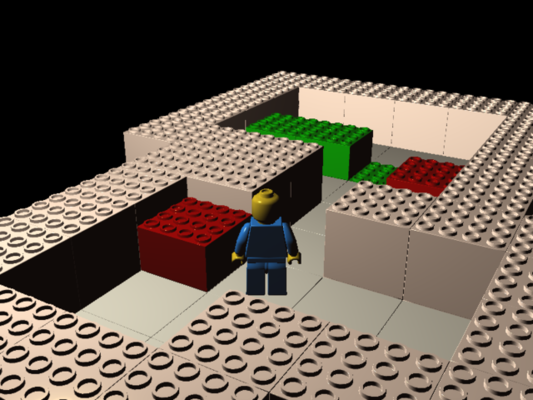
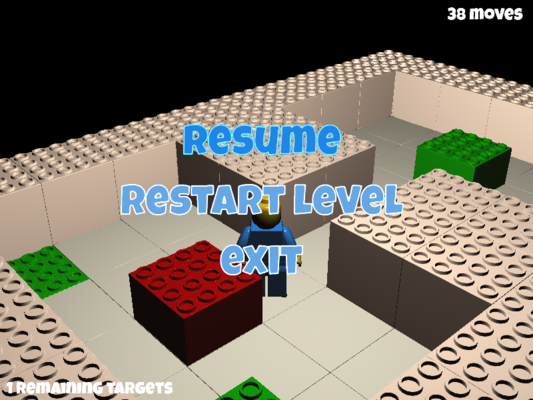
Updated screeenshot and README.
Porting of text rendering to NaCl advances slowly...

diff --git a/README.md b/README.md
@@ -5,7 +5,7 @@ is to **push** all the boxes to their destination places.
 
 ![Screenshot](https://github.com/nuclearwhales/push-the-box/raw/master/screenshot.png)
 
-**Playable version is available** on http://nuclearwhales.github.com/push-the-box .
+(Slightly outdated) **playable version is available** on http://nuclearwhales.github.com/push-the-box.
 Please be patient, it will took a while before it loads -- the dependency
 libraries have ~10 MB in total. If you encounter any problems, please let us
 know :-)
@@ -36,18 +36,15 @@ currently 11 playable levels.
 Why there is no...
 ------------------
 
- - menu? highscore? HUD? help text?
- - no intuitive controls? effects? sound?
-
-Well... we ran out of time :-) The most time-consuming task was porting of the
-engine to NaCl. However, the game is still work in progress, so be sure to
-check for updates!
+Still work in progress :-)
 
 Compiling and running the game
 ------------------------------
 
 You can play the game online on the link provided above, but you can also
-compile and run it on your own. You need these things:
+compile and run it on your own. You can run it either natively using SDL2 or in
+NaCl itself (if everything needed by current version is ported there). In case
+of NaCl you need these things:
 
  - [Native Client SDK](https://developers.google.com/native-client/beta/sdk/download).
    Version used here is `pepper_22`, i.e. unzip it and run `./naclsdk update pepper_22`.
